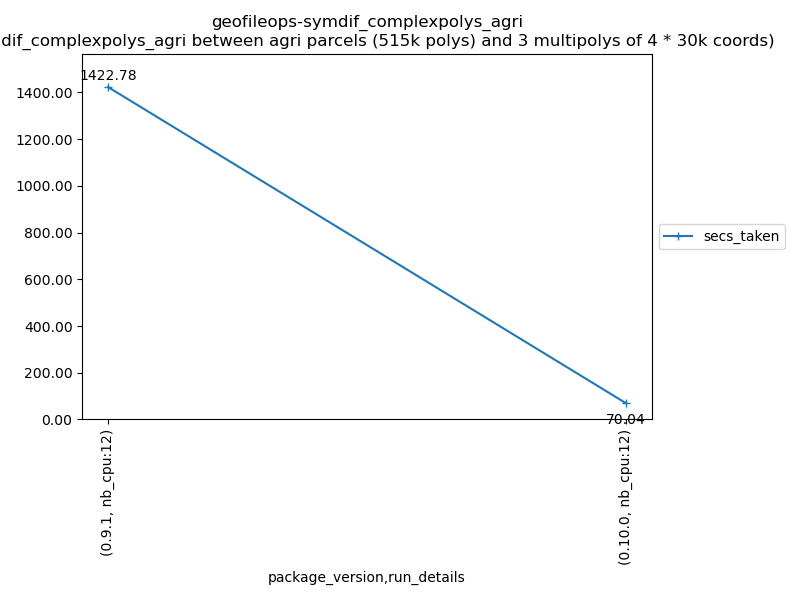
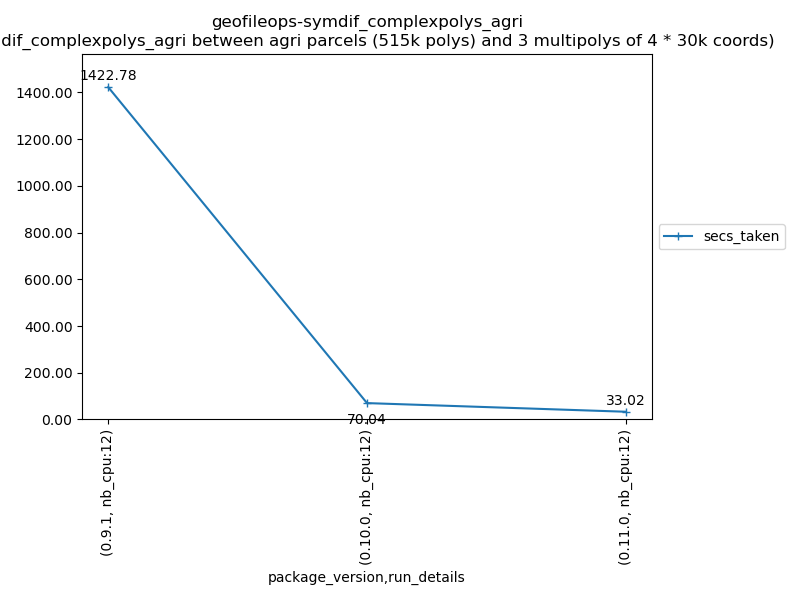
ENH: update results for geofileops 0.11 (#56)

diff --git a/benchmarks_vector_ops/benchmarks_dask_geopandas.py b/benchmarks_vector_ops/benchmarks_dask_geopandas.py
@@ -10,7 +10,7 @@ from pathlib import Path
 import dask_geopandas as dgpd
 
 import geofileops as gfo
-from geofileops.util import geoseries_util
+from geofileops.util import _geoseries_util
 import pyogrio
 
 from benchmarker import RunResult
@@ -62,7 +62,7 @@ def buffer(tmp_dir: Path) -> RunResult:
     result_gdf = dgdf.compute()
     # Harmonize, otherwise invalid gpkg because mixed poly and multipoly
     # Remark: the harmonization would ideally also be done in parallel
-    result_gdf.geometry = geoseries_util.harmonize_geometrytypes(result_gdf.geometry)
+    result_gdf.geometry = _geoseries_util.harmonize_geometrytypes(result_gdf.geometry)
 
     output_path = tmp_dir / f"{input_path.stem}_{_package}_buf.gpkg"
     pyogrio.write_dataframe(
@@ -173,7 +173,7 @@ def dissolve(tmp_dir: Path) -> RunResult:
 
     # Harmonize, otherwise invalid gpkg because mixed poly and multipoly
     # Remark: the harmonization would ideally also be done in parallel
-    result_gdf.geometry = geoseries_util.harmonize_geometrytypes(result_gdf.geometry)
+    result_gdf.geometry = _geoseries_util.harmonize_geometrytypes(result_gdf.geometry)
 
     output_path = tmp_dir / f"{input_path.stem}_{_package}_diss.gpkg"
     pyogrio.write_dataframe(
@@ -224,7 +224,7 @@ def dissolve_groupby(tmp_dir: Path) -> RunResult:
 
     # Harmonize, otherwise invalid gpkg because mixed poly and multipoly
     # Remark: the harmonization would ideally also be done in parallel
-    result_gdf.geometry = geoseries_util.harmonize_geometrytypes(result_gdf.geometry)
+    result_gdf.geometry = _geoseries_util.harmonize_geometrytypes(result_gdf.geometry)
 
     output_path = tmp_dir / f"{input_path.stem}_{_package}_diss_groupby.gpkg"
     pyogrio.write_dataframe(
